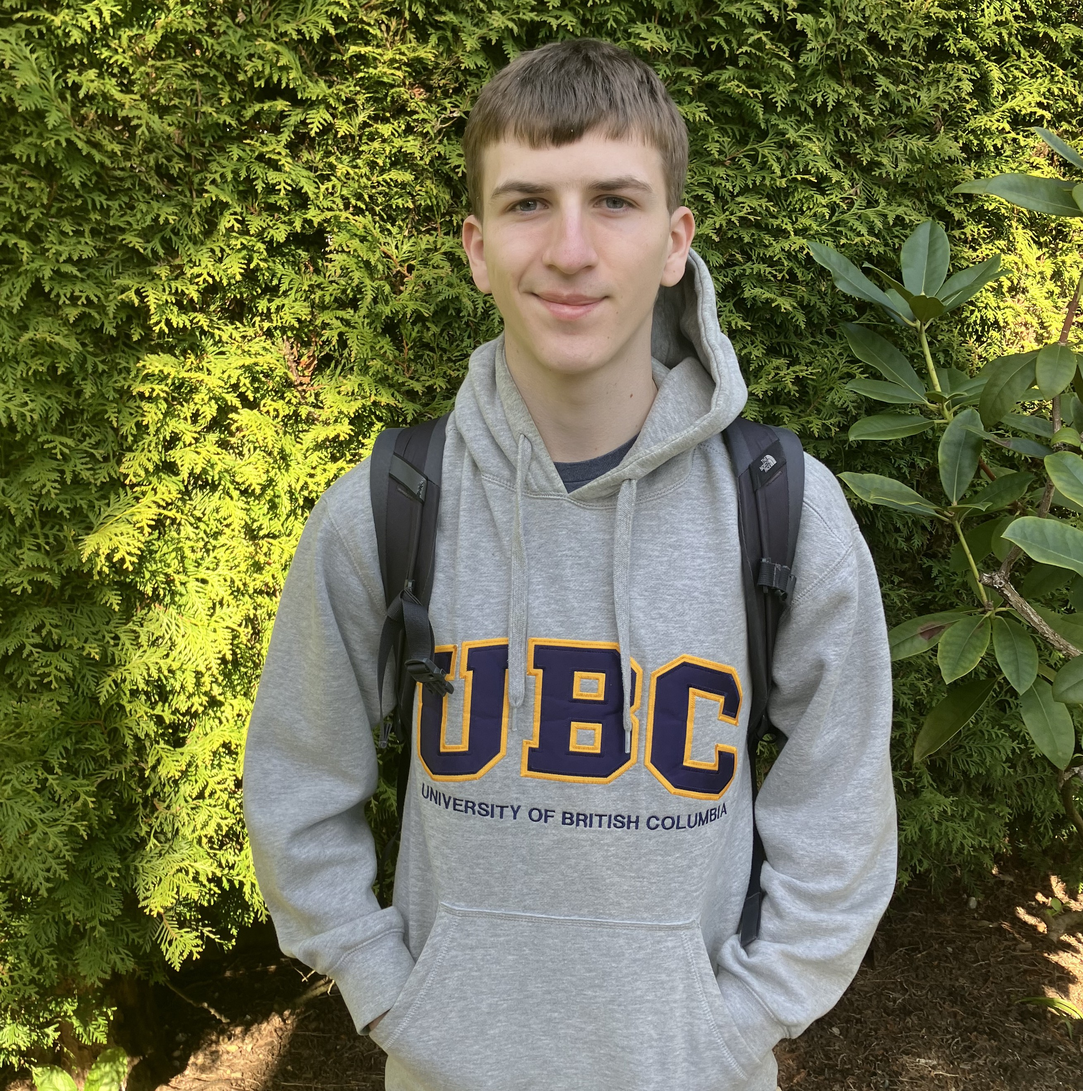
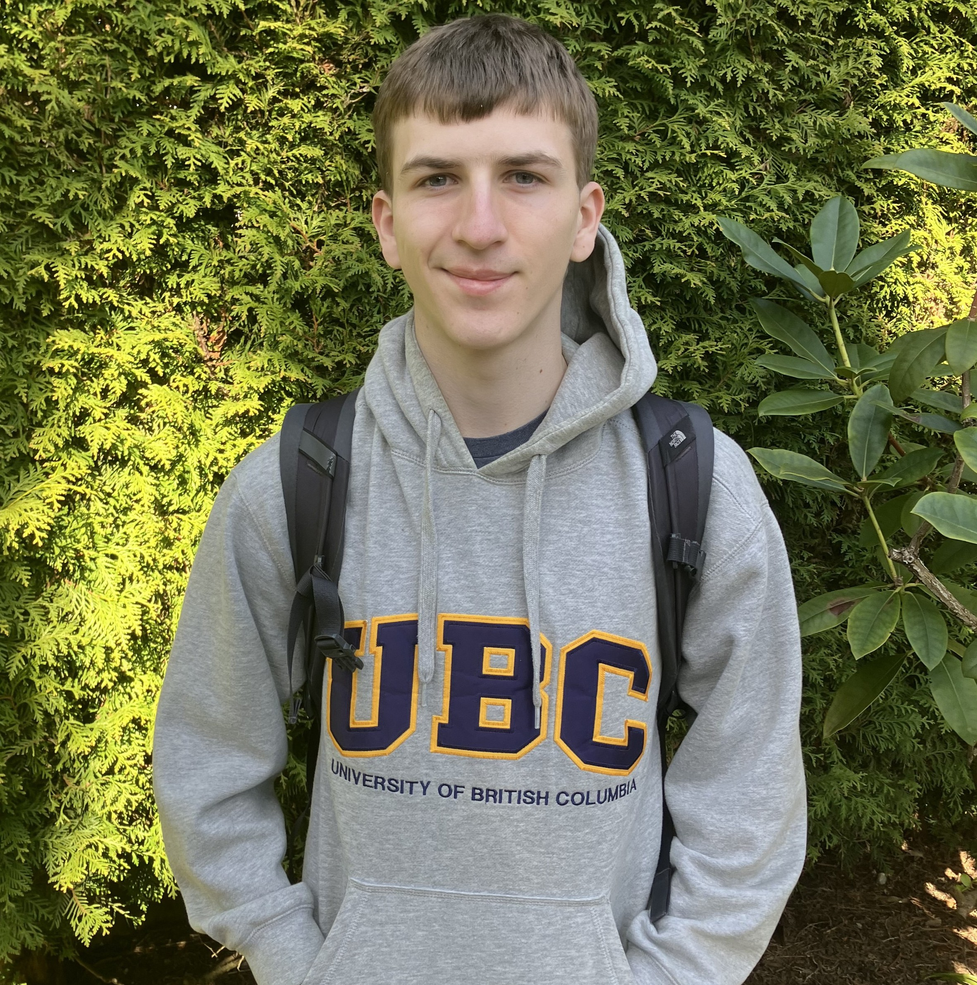
add footer photo

diff --git a/styles.css b/styles.css
@@ -209,6 +209,23 @@ button:focus-visible {
     flex-wrap: wrap
 }
 
+.contact-form {
+    display: flex;
+    align-items: center;
+    justify-content: center;
+    gap: 20px;
+    flex-wrap: wrap
+}
+
+.footer-photo {
+    width: 150px;
+    height: 150px;
+    border-radius: 50%;
+    object-fit: cover;
+    background: var(--blue-200);
+    margin: 0
+}
+
 .btn {
     display: inline-block;
     font-family: 'Karla', sans-serif;

diff --git a/index.html b/index.html
@@ -197,6 +197,7 @@
         </div>
         <div class="contact-form">
           <a class="btn btn-primary" href="#contact">Contact Me</a>
+          <img class="footer-photo" src="MarkFooterPhoto.jpg" alt="Mark Ewert">
         </div>
       </div>
     </section>
